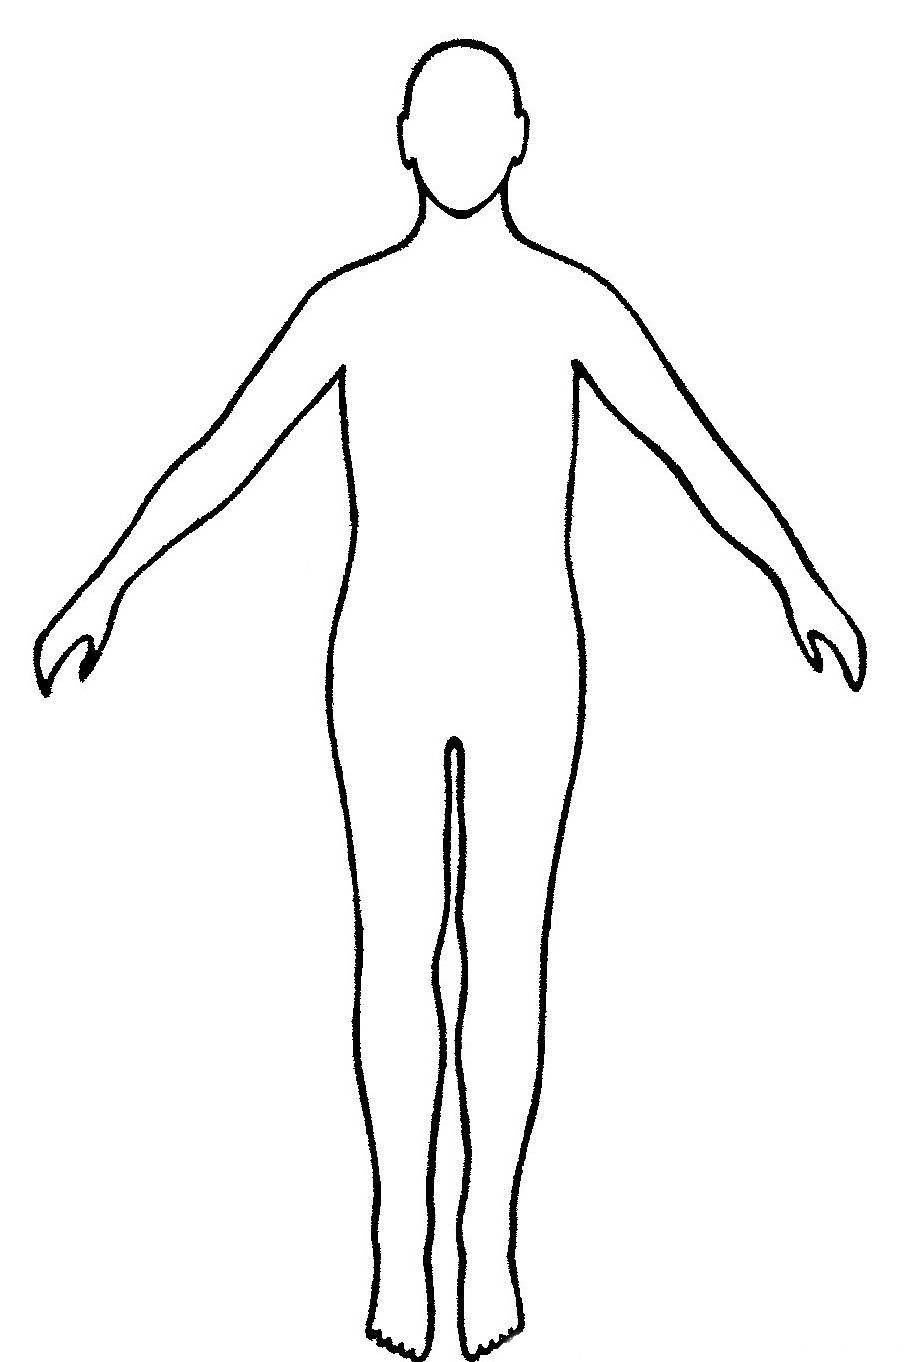
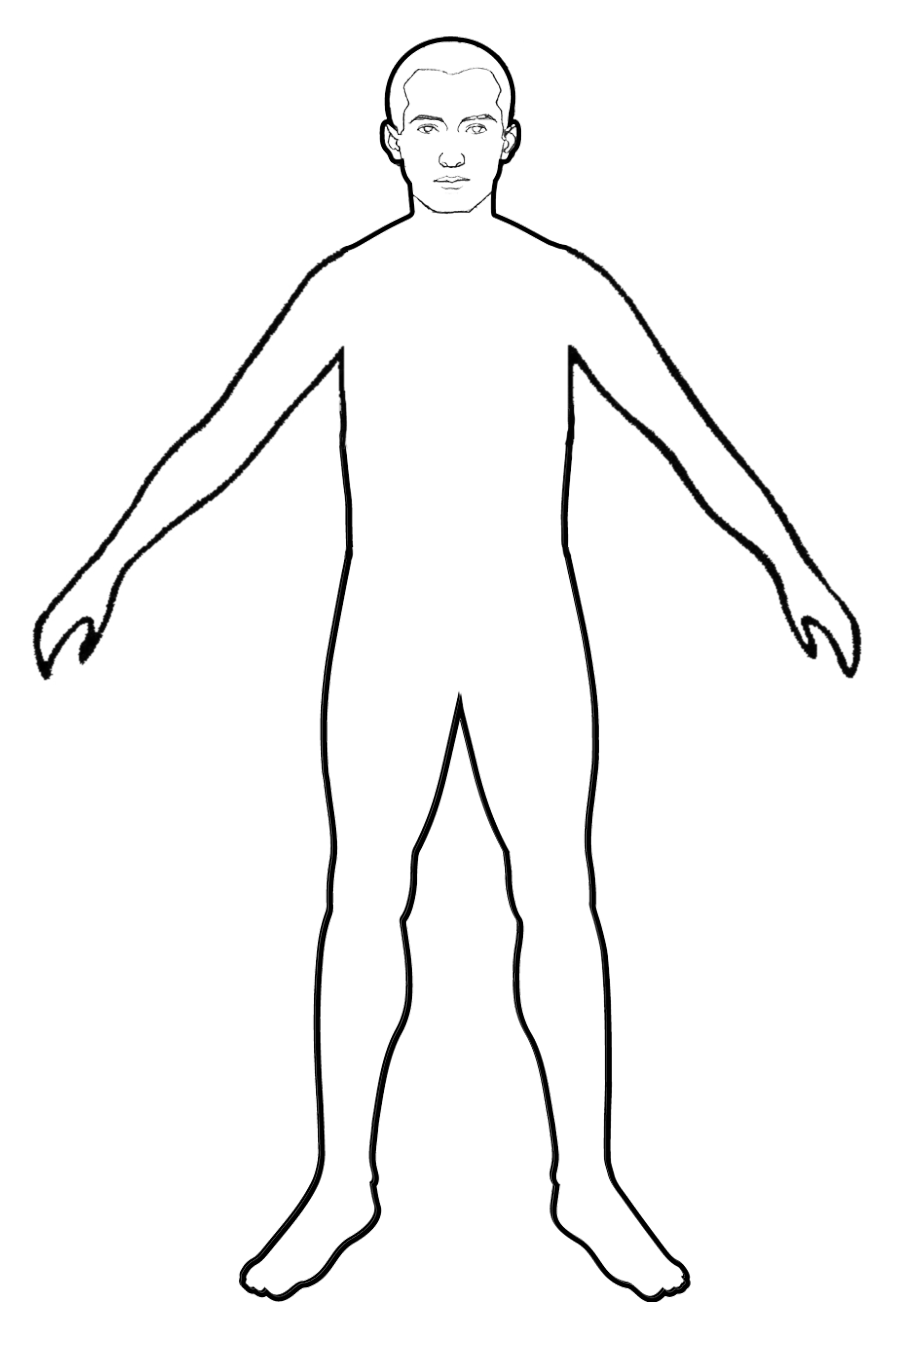
New dummy implemented

diff --git a/filesaver.js b/filesaver.js
@@ -1,138 +1,188 @@
-/*! @source http://purl.eligrey.com/github/FileSaver.js/blob/master/FileSaver.js */
-var saveAs = saveAs || function(e) {
-    "use strict";
-    if (typeof e === "undefined" || typeof navigator !== "undefined" && /MSIE [1-9]\./.test(navigator.userAgent)) {
-        return
-    }
-    var t = e.document
-      , n = function() {
-        return e.URL || e.webkitURL || e
-    }
-      , r = t.createElementNS("http://www.w3.org/1999/xhtml", "a")
-      , o = "download"in r
-      , a = function(e) {
-        var t = new MouseEvent("click");
-        e.dispatchEvent(t)
-    }
-      , i = /constructor/i.test(e.HTMLElement) || e.safari
-      , f = /CriOS\/[\d]+/.test(navigator.userAgent)
-      , u = function(t) {
-        (e.setImmediate || e.setTimeout)(function() {
-            throw t
-        }, 0)
-    }
-      , s = "application/octet-stream"
-      , d = 1e3 * 40
-      , c = function(e) {
-        var t = function() {
-            if (typeof e === "string") {
-                n().revokeObjectURL(e)
-            } else {
-                e.remove()
-            }
-        };
-        setTimeout(t, d)
-    }
-      , l = function(e, t, n) {
-        t = [].concat(t);
-        var r = t.length;
-        while (r--) {
-            var o = e["on" + t[r]];
-            if (typeof o === "function") {
-                try {
-                    o.call(e, n || e)
-                } catch (a) {
-                    u(a)
-                }
-            }
-        }
-    }
-      , p = function(e) {
-        if (/^\s*(?:text\/\S*|application\/xml|\S*\/\S*\+xml)\s*;.*charset\s*=\s*utf-8/i.test(e.type)) {
-            return new Blob([String.fromCharCode(65279), e],{
-                type: e.type
-            })
-        }
-        return e
-    }
-      , v = function(t, u, d) {
-        if (!d) {
-            t = p(t)
-        }
-        var v = this, w = t.type, m = w === s, y, h = function() {
-            l(v, "writestart progress write writeend".split(" "))
-        }, S = function() {
-            if ((f || m && i) && e.FileReader) {
-                var r = new FileReader;
-                r.onloadend = function() {
-                    var t = f ? r.result : r.result.replace(/^data:[^;]*;/, "data:attachment/file;");
-                    var n = e.open(t, "_blank");
-                    if (!n)
-                        e.location.href = t;
-                    t = undefined;
-                    v.readyState = v.DONE;
-                    h()
-                }
-                ;
-                r.readAsDataURL(t);
-                v.readyState = v.INIT;
-                return
-            }
-            if (!y) {
-                y = n().createObjectURL(t)
-            }
-            if (m) {
-                e.location.href = y
-            } else {
-                var o = e.open(y, "_blank");
-                if (!o) {
-                    e.location.href = y
-                }
-            }
-            v.readyState = v.DONE;
-            h();
-            c(y)
-        };
-        v.readyState = v.INIT;
-        if (o) {
-            y = n().createObjectURL(t);
-            setTimeout(function() {
-                r.href = y;
-                r.download = u;
-                a(r);
-                h();
-                c(y);
-                v.readyState = v.DONE
-            });
-            return
-        }
-        S()
-    }
-      , w = v.prototype
-      , m = function(e, t, n) {
-        return new v(e,t || e.name || "download",n)
+(function (global, factory) {
+  if (typeof define === "function" && define.amd) {
+    define([], factory);
+  } else if (typeof exports !== "undefined") {
+    factory();
+  } else {
+    var mod = {
+      exports: {}
     };
-    if (typeof navigator !== "undefined" && navigator.msSaveOrOpenBlob) {
-        return function(e, t, n) {
-            t = t || e.name || "download";
-            if (!n) {
-                e = p(e)
-            }
-            return navigator.msSaveOrOpenBlob(e, t)
-        }
+    factory();
+    global.FileSaver = mod.exports;
+  }
+})(this, function () {
+  "use strict";
+
+  /*
+  * FileSaver.js
+  * A saveAs() FileSaver implementation.
+  *
+  * By Eli Grey, http://eligrey.com
+  *
+  * License : https://github.com/eligrey/FileSaver.js/blob/master/LICENSE.md (MIT)
+  * source  : http://purl.eligrey.com/github/FileSaver.js
+  */
+  // The one and only way of getting global scope in all environments
+  // https://stackoverflow.com/q/3277182/1008999
+  var _global = typeof window === 'object' && window.window === window ? window : typeof self === 'object' && self.self === self ? self : typeof global === 'object' && global.global === global ? global : void 0;
+
+  function bom(blob, opts) {
+    if (typeof opts === 'undefined') opts = {
+      autoBom: false
+    };else if (typeof opts !== 'object') {
+      console.warn('Deprecated: Expected third argument to be a object');
+      opts = {
+        autoBom: !opts
+      };
+    } // prepend BOM for UTF-8 XML and text/* types (including HTML)
+    // note: your browser will automatically convert UTF-16 U+FEFF to EF BB BF
+
+    if (opts.autoBom && /^\s*(?:text\/\S*|application\/xml|\S*\/\S*\+xml)\s*;.*charset\s*=\s*utf-8/i.test(blob.type)) {
+      return new Blob([String.fromCharCode(0xFEFF), blob], {
+        type: blob.type
+      });
     }
-    w.abort = function() {}
-    ;
-    w.readyState = w.INIT = 0;
-    w.WRITING = 1;
-    w.DONE = 2;
-    w.error = w.onwritestart = w.onprogress = w.onwrite = w.onabort = w.onerror = w.onwriteend = null;
-    return m
-}(typeof self !== "undefined" && self || typeof window !== "undefined" && window || this.content);
-if (typeof module !== "undefined" && module.exports) {
-    module.exports.saveAs = saveAs
-} else if (typeof define !== "undefined" && define !== null && define.amd !== null) {
-    define("FileSaver.js", function() {
-        return saveAs
-    })
-}
+
+    return blob;
+  }
+
+  function download(url, name, opts) {
+    var xhr = new XMLHttpRequest();
+    xhr.open('GET', url);
+    xhr.responseType = 'blob';
+
+    xhr.onload = function () {
+      saveAs(xhr.response, name, opts);
+    };
+
+    xhr.onerror = function () {
+      console.error('could not download file');
+    };
+
+    xhr.send();
+  }
+
+  function corsEnabled(url) {
+    var xhr = new XMLHttpRequest(); // use sync to avoid popup blocker
+
+    xhr.open('HEAD', url, false);
+
+    try {
+      xhr.send();
+    } catch (e) {}
+
+    return xhr.status >= 200 && xhr.status <= 299;
+  } // `a.click()` doesn't work for all browsers (#465)
+
+
+  function click(node) {
+    try {
+      node.dispatchEvent(new MouseEvent('click'));
+    } catch (e) {
+      var evt = document.createEvent('MouseEvents');
+      evt.initMouseEvent('click', true, true, window, 0, 0, 0, 80, 20, false, false, false, false, 0, null);
+      node.dispatchEvent(evt);
+    }
+  } // Detect WebView inside a native macOS app by ruling out all browsers
+  // We just need to check for 'Safari' because all other browsers (besides Firefox) include that too
+  // https://www.whatismybrowser.com/guides/the-latest-user-agent/macos
+
+
+  var isMacOSWebView = /Macintosh/.test(navigator.userAgent) && /AppleWebKit/.test(navigator.userAgent) && !/Safari/.test(navigator.userAgent);
+  var saveAs = _global.saveAs || ( // probably in some web worker
+  typeof window !== 'object' || window !== _global ? function saveAs() {}
+  /* noop */
+  // Use download attribute first if possible (#193 Lumia mobile) unless this is a macOS WebView
+  : 'download' in HTMLAnchorElement.prototype && !isMacOSWebView ? function saveAs(blob, name, opts) {
+    var URL = _global.URL || _global.webkitURL;
+    var a = document.createElement('a');
+    name = name || blob.name || 'download';
+    a.download = name;
+    a.rel = 'noopener'; // tabnabbing
+    // TODO: detect chrome extensions & packaged apps
+    // a.target = '_blank'
+
+    if (typeof blob === 'string') {
+      // Support regular links
+      a.href = blob;
+
+      if (a.origin !== location.origin) {
+        corsEnabled(a.href) ? download(blob, name, opts) : click(a, a.target = '_blank');
+      } else {
+        click(a);
+      }
+    } else {
+      // Support blobs
+      a.href = URL.createObjectURL(blob);
+      setTimeout(function () {
+        URL.revokeObjectURL(a.href);
+      }, 4E4); // 40s
+
+      setTimeout(function () {
+        click(a);
+      }, 0);
+    }
+  } // Use msSaveOrOpenBlob as a second approach
+  : 'msSaveOrOpenBlob' in navigator ? function saveAs(blob, name, opts) {
+    name = name || blob.name || 'download';
+
+    if (typeof blob === 'string') {
+      if (corsEnabled(blob)) {
+        download(blob, name, opts);
+      } else {
+        var a = document.createElement('a');
+        a.href = blob;
+        a.target = '_blank';
+        setTimeout(function () {
+          click(a);
+        });
+      }
+    } else {
+      navigator.msSaveOrOpenBlob(bom(blob, opts), name);
+    }
+  } // Fallback to using FileReader and a popup
+  : function saveAs(blob, name, opts, popup) {
+    // Open a popup immediately do go around popup blocker
+    // Mostly only available on user interaction and the fileReader is async so...
+    popup = popup || open('', '_blank');
+
+    if (popup) {
+      popup.document.title = popup.document.body.innerText = 'downloading...';
+    }
+
+    if (typeof blob === 'string') return download(blob, name, opts);
+    var force = blob.type === 'application/octet-stream';
+
+    var isSafari = /constructor/i.test(_global.HTMLElement) || _global.safari;
+
+    var isChromeIOS = /CriOS\/[\d]+/.test(navigator.userAgent);
+
+    if ((isChromeIOS || force && isSafari || isMacOSWebView) && typeof FileReader !== 'undefined') {
+      // Safari doesn't allow downloading of blob URLs
+      var reader = new FileReader();
+
+      reader.onloadend = function () {
+        var url = reader.result;
+        url = isChromeIOS ? url : url.replace(/^data:[^;]*;/, 'data:attachment/file;');
+        if (popup) popup.location.href = url;else location = url;
+        popup = null; // reverse-tabnabbing #460
+      };
+
+      reader.readAsDataURL(blob);
+    } else {
+      var URL = _global.URL || _global.webkitURL;
+      var url = URL.createObjectURL(blob);
+      if (popup) popup.location = url;else location.href = url;
+      popup = null; // reverse-tabnabbing #460
+
+      setTimeout(function () {
+        URL.revokeObjectURL(url);
+      }, 4E4); // 40s
+    }
+  });
+  _global.saveAs = saveAs.saveAs = saveAs;
+
+  if (typeof module !== 'undefined') {
+    module.exports = saveAs;
+  }
+});

diff --git a/pose_editor.html b/pose_editor.html
@@ -69,28 +69,28 @@ file:///D:/cloud/work/1on1/PoseEditor/pose_editor.html?currModel=1
 
         var dummySelectedId = 0;
         var dummy_data = [
-            0, 0.51, 0.1,
-            1, 0.39, 0.21,
+            0, 0.5, 0.11,  //nose
+            1, 0.39, 0.21, //shoulders
             2, 0.63, 0.21,
-            3, 0.26, 0.33,
-            4, 0.77, 0.33,
-            5, 0.12, 0.43,
-            6, 0.88, 0.43,
-            7, 0.41, 0.50,
-            8, 0.60, 0.50,
-            9, 0.44, 0.73,
-            10, 0.56, 0.73,
-            11, 0.44, 0.93,
-            12, 0.54, 0.93,
+            3, 0.27, 0.31, //elbows
+            4, 0.75, 0.31,
+            5, 0.12, 0.41, //wrists
+            6, 0.87, 0.41,
+            7, 0.446, 0.490, //hips
+            8,  0.574, 0.490,
+            9, 0.412, 0.659,  //knees
+            10, 0.612, 0.659,
+            11, 0.385, 0.860,   //ankles
+            12, 0.642, 0.862,
 
-            13, 0.44, 0.09,
-            14, 0.58, 0.09,
-            15, 0.10, 0.49,
-            16, 0.9, 0.49,
-            17, 0.47, 0.95,
-            18, 0.52, 0.95,
-            19, 0.46, 0.99,
-            20, 0.52, 0.99,
+            13, 0.43, 0.10, //ears
+            14, 0.57, 0.10,
+            15, 0.088, 0.485, //big fingers
+            16, 0.897, 0.485,
+            17, 0.413, 0.889,  //heels
+            18, 0.618, 0.889,
+            19, 0.308, 0.950,    //big toes
+            20, 0.722, 0.949,
         ];
 
         var dataIn = [];
